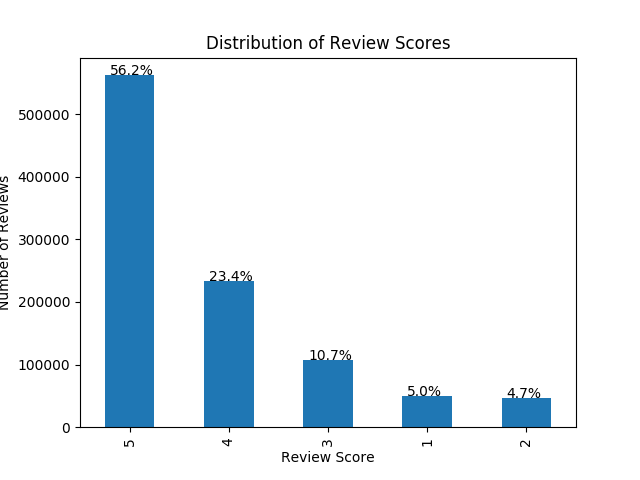
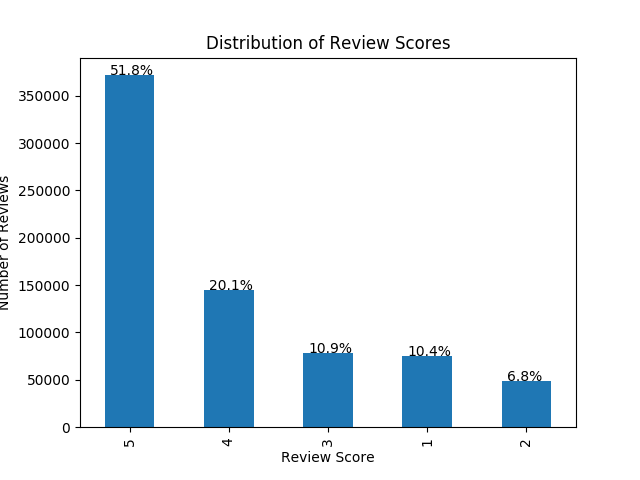
updated eda results

diff --git a/eda.py b/eda.py
@@ -27,6 +27,9 @@ def dataset_stats(df):
     print('\nNumber of reviews: ' + str(df.shape[0]))
     # Average length of reviews
     print('\nAverage length of reviews: ' + str(df['reviewText'].apply(len).mean()))
+    # 5-number summary statistics
+    print('Five-number summary statistics:')
+    print(df['reviewText'].apply(len).describe())
     # Number of labels
     print('\nNumber of unique labels: ' + str(len(df['score'].unique())))
 
@@ -61,7 +64,7 @@ def main():
     main function to do exploratory data analysis
     :return: None
     """
-    in_file_path = 'Data/kindle_store_reviews.csv'
+    in_file_path = 'Data/processed_video_reviews.csv'
     score_distribution_graph = 'EDA/score_distribution_graph.png'
 
     df = read_data(in_file_path)
